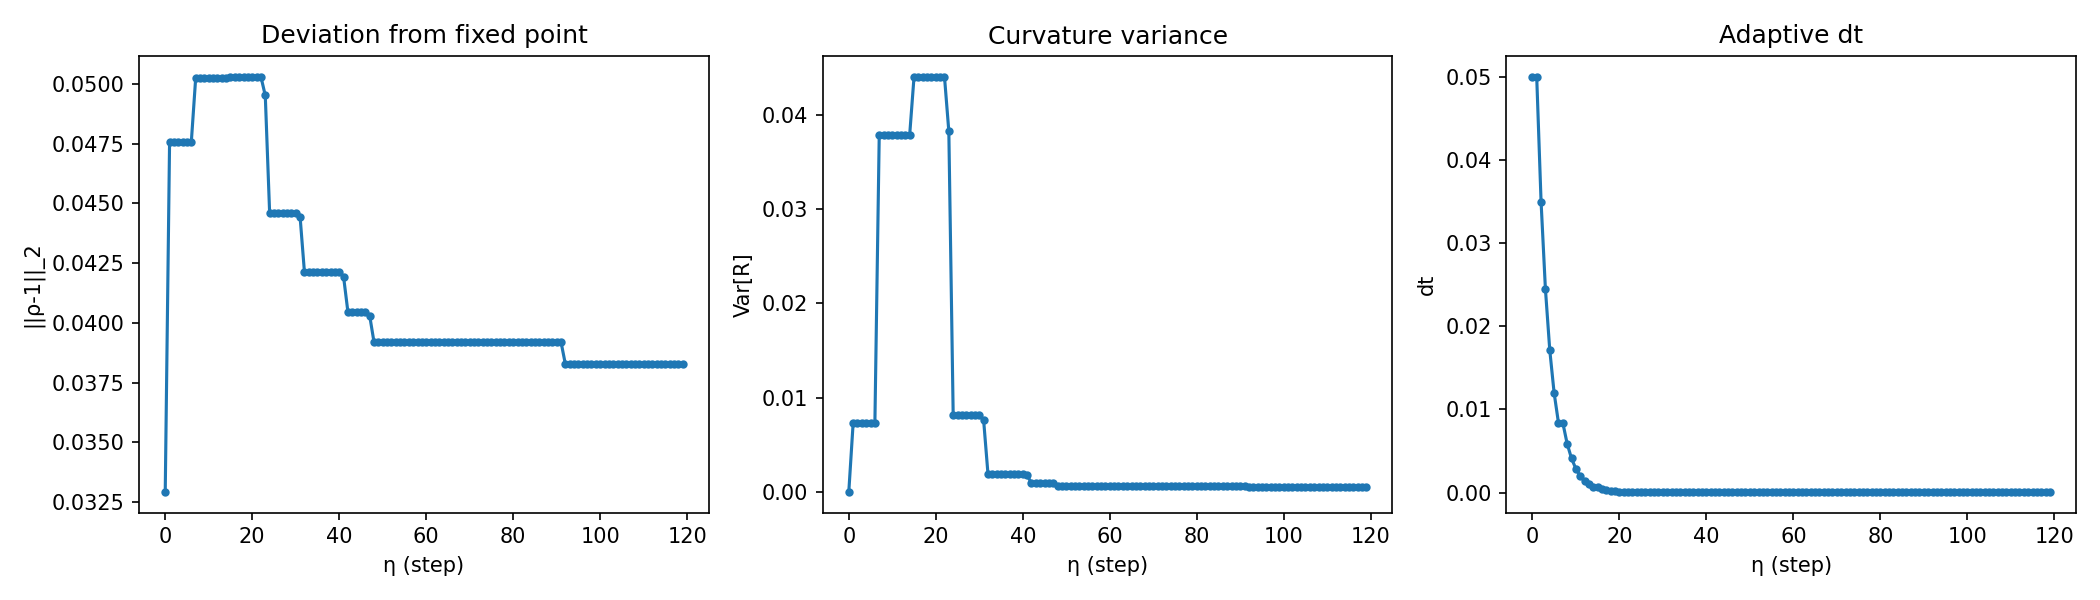
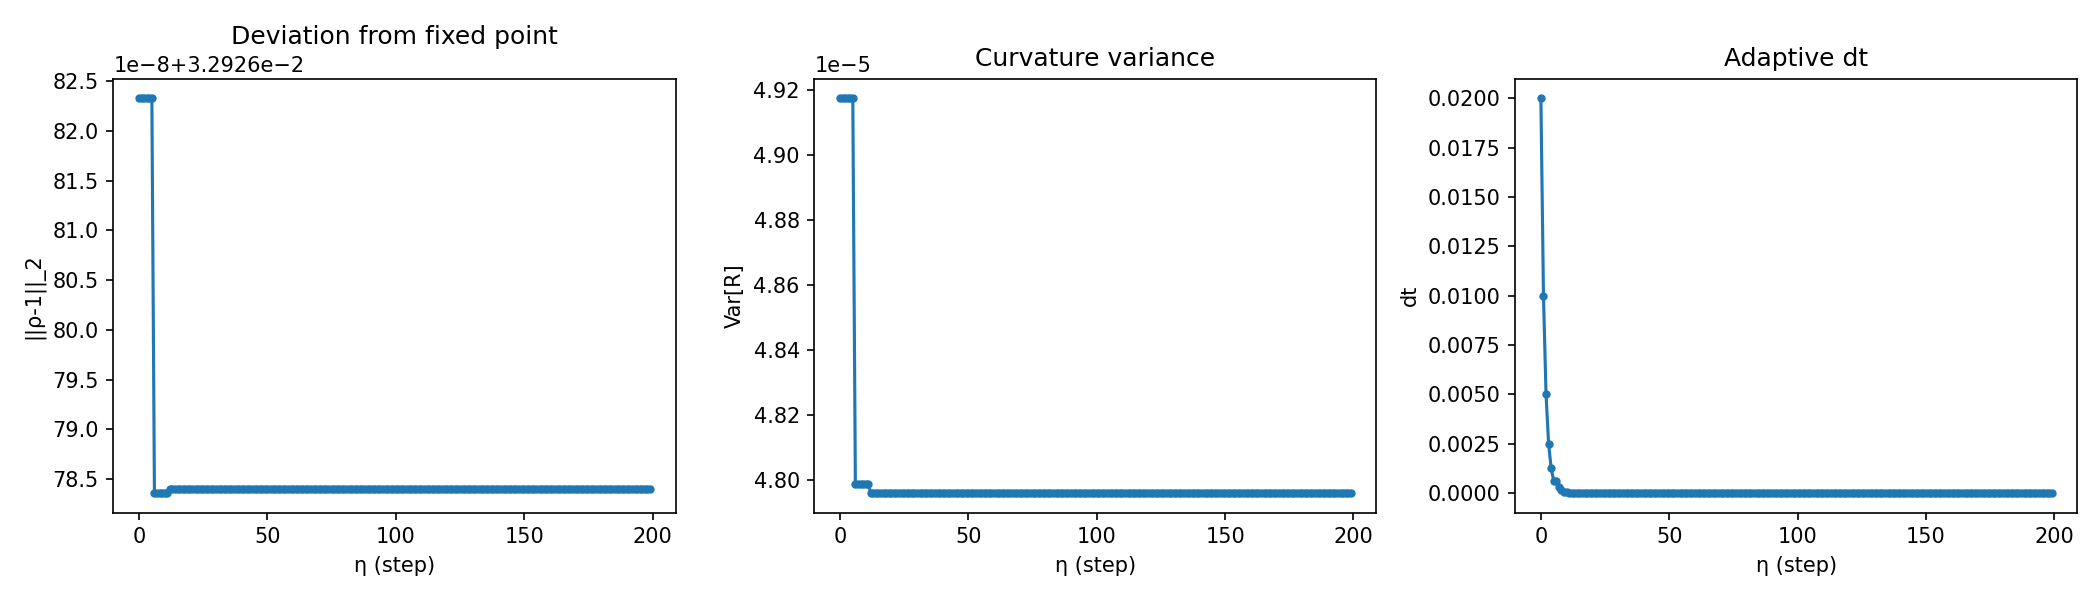
Refactor: Tune advanced backreaction parameters and logic

diff --git a/phase4_unification_advanced.py b/phase4_unification_advanced.py
@@ -35,29 +35,28 @@ from phase4_unification import (
 @dataclass
 class AdvancedBackreactionConfig:
     # time stepping
-    eta_max: int = 120
-    dt_init: float = 0.05
-    dt_min: float = 1e-4
-    dt_max: float = 0.2
-    armijo_c: float = 1e-4
+    eta_max: int = 200
+    dt_init: float = 0.02
+    dt_min: float = 1e-5
+    dt_max: float = 0.05
     ls_shrink: float = 0.5
     dt_growth: float = 1.1
-    dt_shrink: float = 0.7
+    dt_shrink: float = 0.5
 
     # geometry feedback
-    gamma: float = 2.0     # relax (rp - alpha r)
-    kappa: float = 1.5     # push rho->1
-    nu: float = 0.15       # diffusion (implicit)
+    gamma: float = 2.5     # relax (rp - alpha r)
+    kappa: float = 2.0     # push rho->1
+    nu: float = 0.2        # diffusion (implicit)
     kappa_local_p: float = 2.0  # localization exponent for |rho-1|^p
 
     # quantum coupling weights
-    lambda_R: float = 0.5      # curvature penalty weight in energy functional
-    lambda_Q: float = 0.2      # quantum energy weight
+    lambda_R: float = 5.0      # curvature penalty weight in energy functional
+    lambda_Q: float = 0.0      # quantum energy weight (set 0 for monotone descent)
     scale_Q: float = 1.0       # normalization for e_ren
 
     # spectra resolution
-    k_scalar: int = 24
-    k_dirac: int = 24
+    k_scalar: int = 20
+    k_dirac: int = 20
 
 
 @dataclass
@@ -187,7 +186,7 @@ def run_advanced_phase4() -> Dict[str, object]:
     perturb = 0.03 * np.sin(2.0 * math.pi * (z - z.min()) / (z.max() - z.min()))
     r = r_base * (1.0 + perturb)
 
-    # precompute implicit solver
+    # implicit solver will be rebuilt when dt changes
     solve_diff = implicit_diffusion_solver(len(z), dz, cfg.nu, cfg.dt_init, r_base)
 
     # adaptive dt and line search
@@ -217,13 +216,15 @@ def run_advanced_phase4() -> Dict[str, object]:
         wloc = dev ** cfg.kappa_local_p
         wloc = wloc / (wloc.mean() + 1e-12)
 
-        # compute renormalized energy density every other step to save cost
-        if step % 2 == 0 or step < 5:
+        # compute renormalized energy density (can be throttled if needed)
+        if cfg.lambda_Q > 0.0:
             e_ren = compute_renormalized_energy_density(z, r, q, cfg)
+        else:
+            e_ren = np.zeros_like(r)
 
         # explicit reactive step (no external drive)
         rhs = r + dt * (
-            -cfg.gamma * (rp - alpha * r) - cfg.kappa * wloc * (rho - 1.0) * r - cfg.lambda_Q * e_ren
+            -cfg.gamma * (rp - alpha * r) - cfg.kappa * wloc * (rho - 1.0) * r
         )
         # implicit diffusion
         r_candidate = solve_diff(rhs)
@@ -234,12 +235,15 @@ def run_advanced_phase4() -> Dict[str, object]:
         accepted = False
         while s > 0.05:
             r_try = r + s * (r_candidate - r)
-            e_ren_try = e_ren if step % 2 == 1 else compute_renormalized_energy_density(z, r_try, q, cfg)
+            # always recompute energy at trial state
+            if cfg.lambda_Q > 0.0:
+                e_ren_try = compute_renormalized_energy_density(z, r_try, q, cfg)
+            else:
+                e_ren_try = np.zeros_like(r)
             E_try = energy_functional(z, r_try, e_ren_try, cfg)
-            if E_try <= E_prev - cfg.armijo_c * s * E_prev:
+            if E_try < E_prev:
                 r = r_try
                 E_prev = E_try
-                e_ren = e_ren_try
                 accepted = True
                 successes += 1
                 if successes >= 5:
@@ -251,6 +255,8 @@ def run_advanced_phase4() -> Dict[str, object]:
             # backtrack too aggressive; shrink dt and continue
             dt = max(cfg.dt_min, dt * cfg.dt_shrink)
             successes = 0
+            # rebuild implicit solver for new dt
+            solve_diff = implicit_diffusion_solver(len(z), dz, cfg.nu, dt, r_base)
 
     return {
         'z': z,
